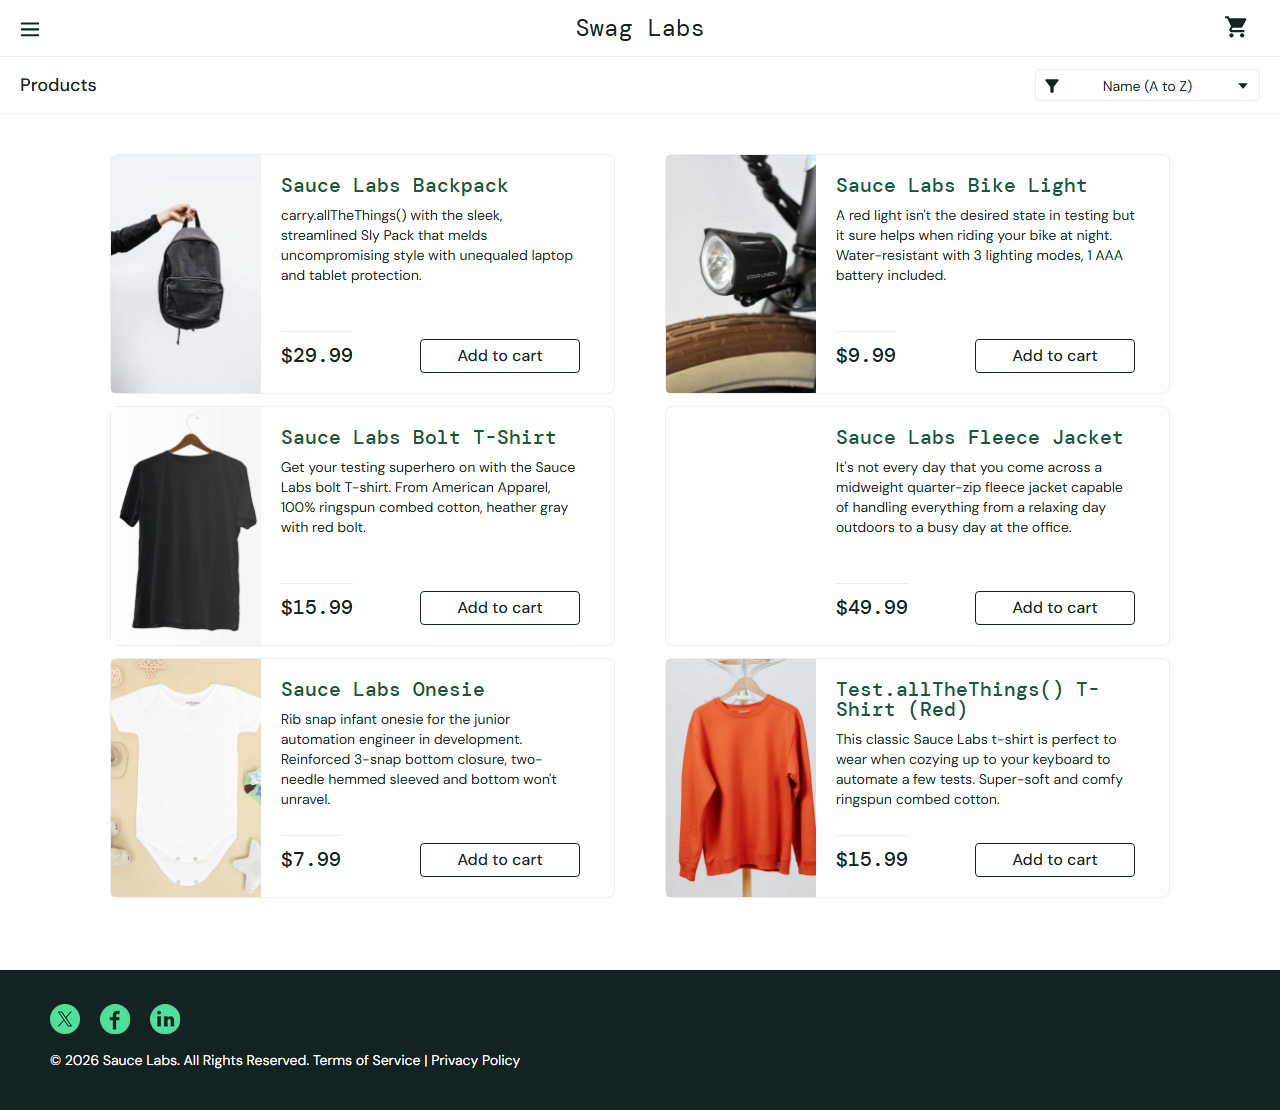
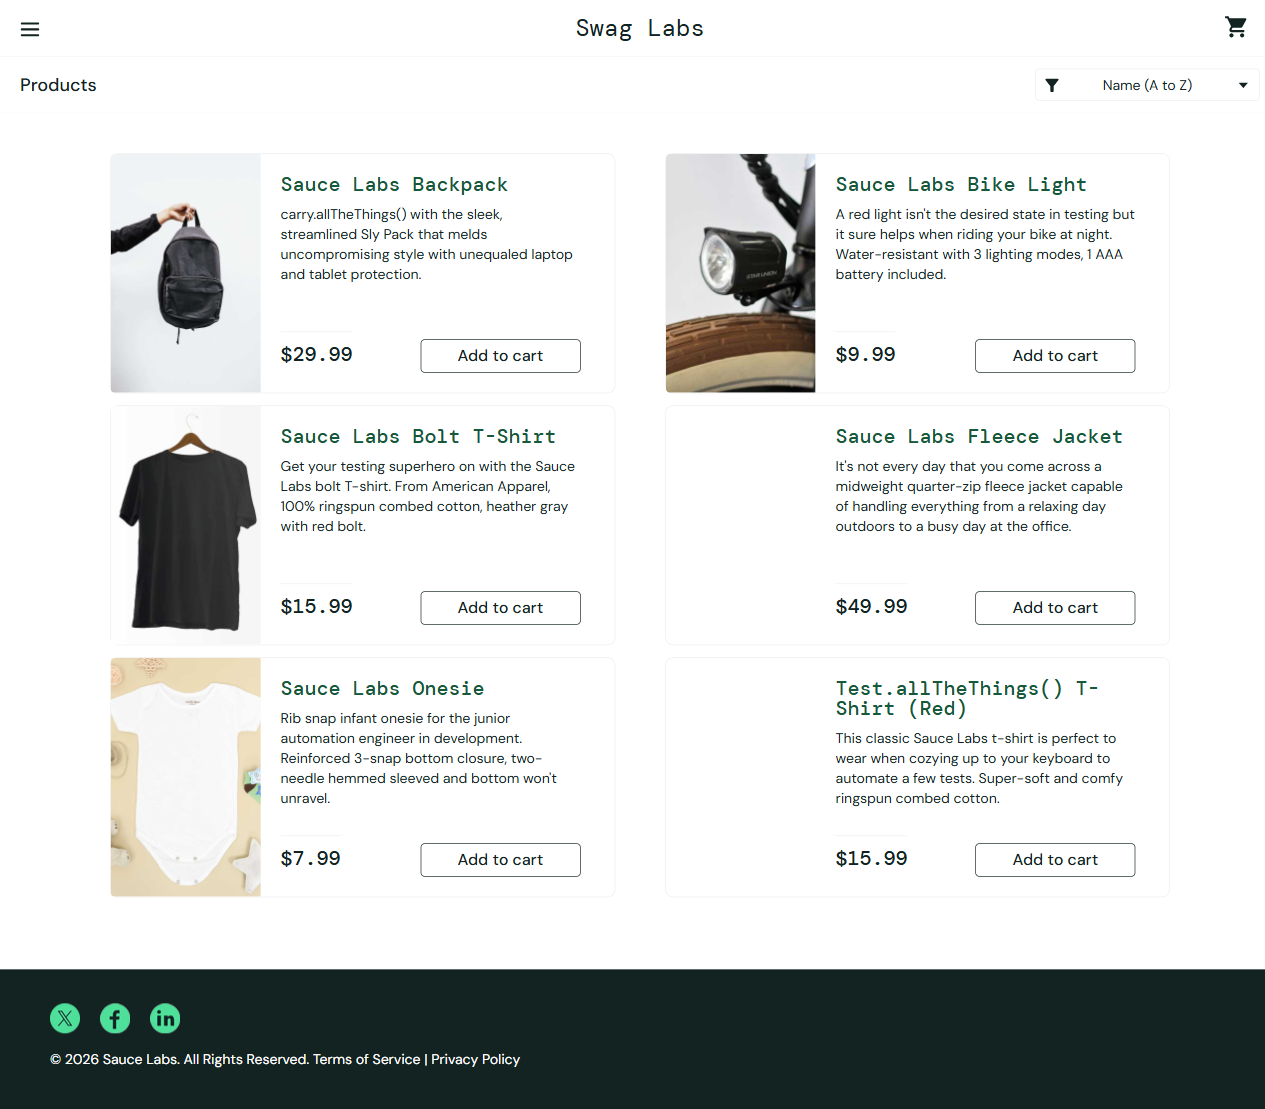
second commit with logout scenario

diff --git a/playwright-report/index.html b/playwright-report/index.html
@@ -46,4 +46,4 @@ Error generating stack: `+e.message+`
     <div id='root'></div>
   </body>
 </html>
[2 lines of base64/hex data omitted]

diff --git a/tests/Loggout.spec.ts b/tests/Loggout.spec.ts
@@ -1,0 +1,31 @@
+import { test, expect } from '@playwright/test';
+import { userLoginCred } from '../utils/testData';
+import { LoginPage } from '../pages/LoginPage';
+import { HomePage } from '../pages/HomePage';
+
+test('Logout Test @smoke', async ({ page }) => {
+
+   // Create Login Page Object
+       const loginPage: LoginPage = new LoginPage(page);
+   
+       // Navigate to Application
+       await loginPage.navigateToLoginPage();
+       await page.screenshot({
+           path: 'screenshots/login-before.png',
+           fullPage: true
+       });
+   
+       // Login with Valid Credentials
+       await loginPage.login(
+           userLoginCred.standardUser,
+           userLoginCred.password
+       );
+   
+       // Verify Login Success
+       await loginPage.verifyLoginSuccess();
+       await page.screenshot({
+           path: 'screenshots/login-after.png',
+           fullPage: true
+       });
+       //await page.pause();
+});

diff --git a/pages/HomePage.ts b/pages/HomePage.ts
@@ -5,12 +5,16 @@ export class HomePage {
     private productsTitle: Locator;
     private sortDropdown: Locator;
     private inventoryItemNames: Locator;
+    private menuButton : Locator;
+    private logoutLink : Locator;
 
     constructor(page: Page) {
         this.page = page;
         this.productsTitle = this.page.locator('.title');
         this.sortDropdown = this.page.locator('.product_sort_container');
         this.inventoryItemNames = this.page.locator('.inventory_item_name');
+        this.menuButton = this.page.locator('#menu_button_container');
+        this.logoutLink = this.page.locator('#logout_sidebar_link');
     }
 
     async verifyHomePage() {
@@ -26,5 +30,10 @@ export class HomePage {
         await this.inventoryItemNames
             .filter({ hasText: productName })
             .click();
+    }
+
+    async logout() {
+        await this.menuButton.click();
+        await this.logoutLink.click();
     }
 }

diff --git a/allure-results/7561fa24-5cb8-4530-abe5-ad1f3bc0f356-attachment.md b/allure-results/7561fa24-5cb8-4530-abe5-ad1f3bc0f356-attachment.md
@@ -1,0 +1,119 @@
+# Instructions
+
+- Following Playwright test failed.
+- Explain why, be concise, respect Playwright best practices.
+- Provide a snippet of code with the fix, if possible.
+
+# Test info
+
+- Name: Loggout.spec.ts >> Logout Test @smoke
+- Location: tests\Loggout.spec.ts:6:1
+
+# Error details
+
+```
+Test timeout of 30000ms exceeded.
+```
+
+# Page snapshot
+
+```yaml
+- generic [ref=e3]:
+  - generic [ref=e4]:
+    - banner [ref=e5]:
+      - generic [ref=e6]:
+        - generic [ref=e7]:
+          - button "Open Menu" [ref=e8] [cursor=pointer]
+          - img "Open Menu" [ref=e9]
+        - generic [ref=e10]: Swag Labs
+        - button "Cart, empty" [ref=e13]
+      - generic [ref=e14]:
+        - generic [ref=e15]: Products
+        - generic [ref=e17] [cursor=pointer]:
+          - generic [ref=e18]: Name (A to Z)
+          - combobox "Sort products" [ref=e19]:
+            - option "Name (A to Z)" [selected]
+            - option "Name (Z to A)"
+            - option "Price (low to high)"
+            - option "Price (high to low)"
+    - main [ref=e20]:
+      - generic [ref=e23]:
+        - generic [ref=e24]:
+          - button "View details for Sauce Labs Backpack" [ref=e26] [cursor=pointer]:
+            - img "Sauce Labs Backpack" [ref=e27]
+          - generic [ref=e28]:
+            - generic [ref=e29]:
+              - button "View details for Sauce Labs Backpack" [ref=e30] [cursor=pointer]:
+                - generic [ref=e31]: Sauce Labs Backpack
+              - generic [ref=e32]: carry.allTheThings() with the sleek, streamlined Sly Pack that melds uncompromising style with unequaled laptop and tablet protection.
+            - generic [ref=e33]:
+              - generic [ref=e34]: $29.99
+              - button "Add to cart" [ref=e35] [cursor=pointer]
+        - generic [ref=e36]:
+          - button "View details for Sauce Labs Bike Light" [ref=e38] [cursor=pointer]:
+            - img "Sauce Labs Bike Light" [ref=e39]
+          - generic [ref=e40]:
+            - generic [ref=e41]:
+              - button "View details for Sauce Labs Bike Light" [ref=e42] [cursor=pointer]:
+                - generic [ref=e43]: Sauce Labs Bike Light
+              - generic [ref=e44]: A red light isn't the desired state in testing but it sure helps when riding your bike at night. Water-resistant with 3 lighting modes, 1 AAA battery included.
+            - generic [ref=e45]:
+              - generic [ref=e46]: $9.99
+              - button "Add to cart" [ref=e47] [cursor=pointer]
+        - generic [ref=e48]:
+          - button "View details for Sauce Labs Bolt T-Shirt" [ref=e50] [cursor=pointer]:
+            - img "Sauce Labs Bolt T-Shirt" [ref=e51]
+          - generic [ref=e52]:
+            - generic [ref=e53]:
+              - button "View details for Sauce Labs Bolt T-Shirt" [ref=e54] [cursor=pointer]:
+                - generic [ref=e55]: Sauce Labs Bolt T-Shirt
+              - generic [ref=e56]: Get your testing superhero on with the Sauce Labs bolt T-shirt. From American Apparel, 100% ringspun combed cotton, heather gray with red bolt.
+            - generic [ref=e57]:
+              - generic [ref=e58]: $15.99
+              - button "Add to cart" [ref=e59] [cursor=pointer]
+        - generic [ref=e60]:
+          - button "View details for Sauce Labs Fleece Jacket" [ref=e62] [cursor=pointer]:
+            - img "Sauce Labs Fleece Jacket" [ref=e63]
+          - generic [ref=e64]:
+            - generic [ref=e65]:
+              - button "View details for Sauce Labs Fleece Jacket" [ref=e66] [cursor=pointer]:
+                - generic [ref=e67]: Sauce Labs Fleece Jacket
+              - generic [ref=e68]: It's not every day that you come across a midweight quarter-zip fleece jacket capable of handling everything from a relaxing day outdoors to a busy day at the office.
+            - generic [ref=e69]:
+              - generic [ref=e70]: $49.99
+              - button "Add to cart" [ref=e71] [cursor=pointer]
+        - generic [ref=e72]:
+          - button "View details for Sauce Labs Onesie" [ref=e74] [cursor=pointer]:
+            - img "Sauce Labs Onesie" [ref=e75]
+          - generic [ref=e76]:
+            - generic [ref=e77]:
+              - button "View details for Sauce Labs Onesie" [ref=e78] [cursor=pointer]:
+                - generic [ref=e79]: Sauce Labs Onesie
+              - generic [ref=e80]: Rib snap infant onesie for the junior automation engineer in development. Reinforced 3-snap bottom closure, two-needle hemmed sleeved and bottom won't unravel.
+            - generic [ref=e81]:
+              - generic [ref=e82]: $7.99
+              - button "Add to cart" [ref=e83] [cursor=pointer]
+        - generic [ref=e84]:
+          - button "View details for Test.allTheThings() T-Shirt (Red)" [ref=e86] [cursor=pointer]:
+            - img "Test.allTheThings() T-Shirt (Red)" [ref=e87]
+          - generic [ref=e88]:
+            - generic [ref=e89]:
+              - button "View details for Test.allTheThings() T-Shirt (Red)" [ref=e90] [cursor=pointer]:
+                - generic [ref=e91]: Test.allTheThings() T-Shirt (Red)
+              - generic [ref=e92]: This classic Sauce Labs t-shirt is perfect to wear when cozying up to your keyboard to automate a few tests. Super-soft and comfy ringspun combed cotton.
+            - generic [ref=e93]:
+              - generic [ref=e94]: $15.99
+              - button "Add to cart" [ref=e95] [cursor=pointer]
+  - contentinfo [ref=e96]:
+    - list [ref=e97]:
+      - listitem [ref=e98]:
+        - link "X" [ref=e99] [cursor=pointer]:
+          - /url: https://x.com/saucelabs
+      - listitem [ref=e100]:
+        - link "Facebook" [ref=e101] [cursor=pointer]:
+          - /url: https://www.facebook.com/saucelabs
+      - listitem [ref=e102]:
+        - link "LinkedIn" [ref=e103] [cursor=pointer]:
+          - /url: https://www.linkedin.com/company/sauce-labs/
+    - generic [ref=e104]: © 2026 Sauce Labs. All Rights Reserved. Terms of Service | Privacy Policy
+```
